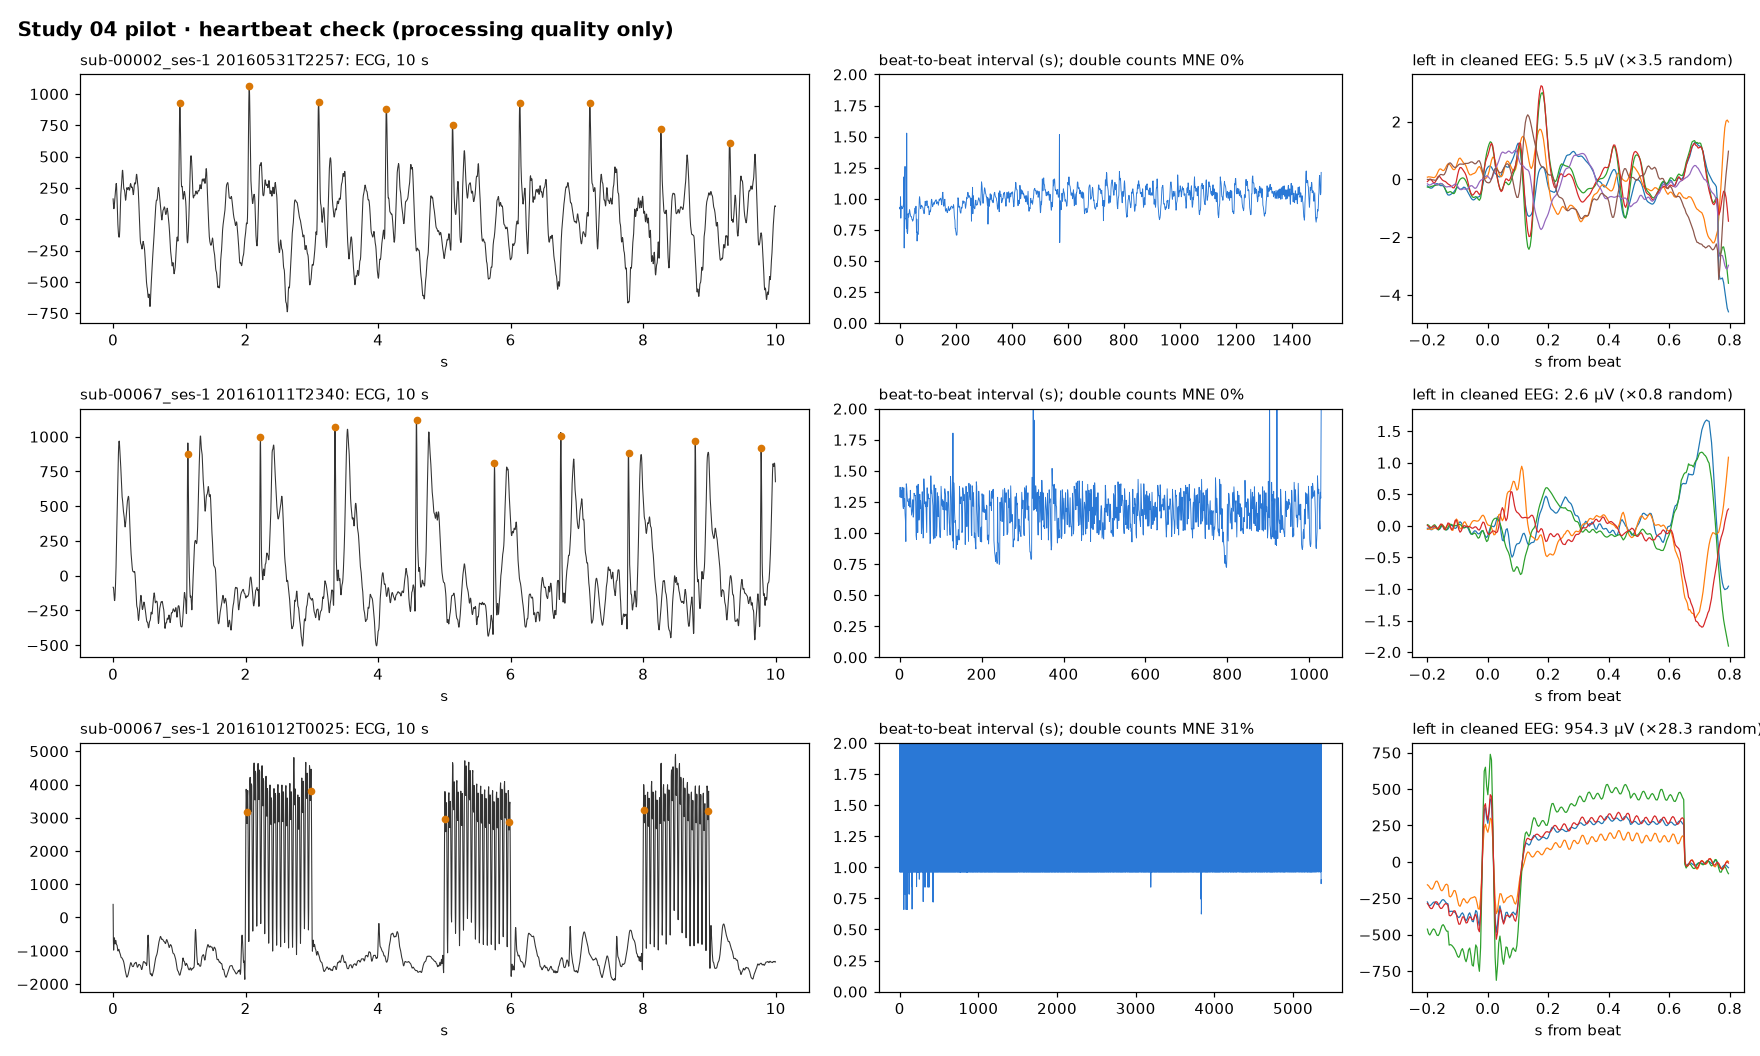
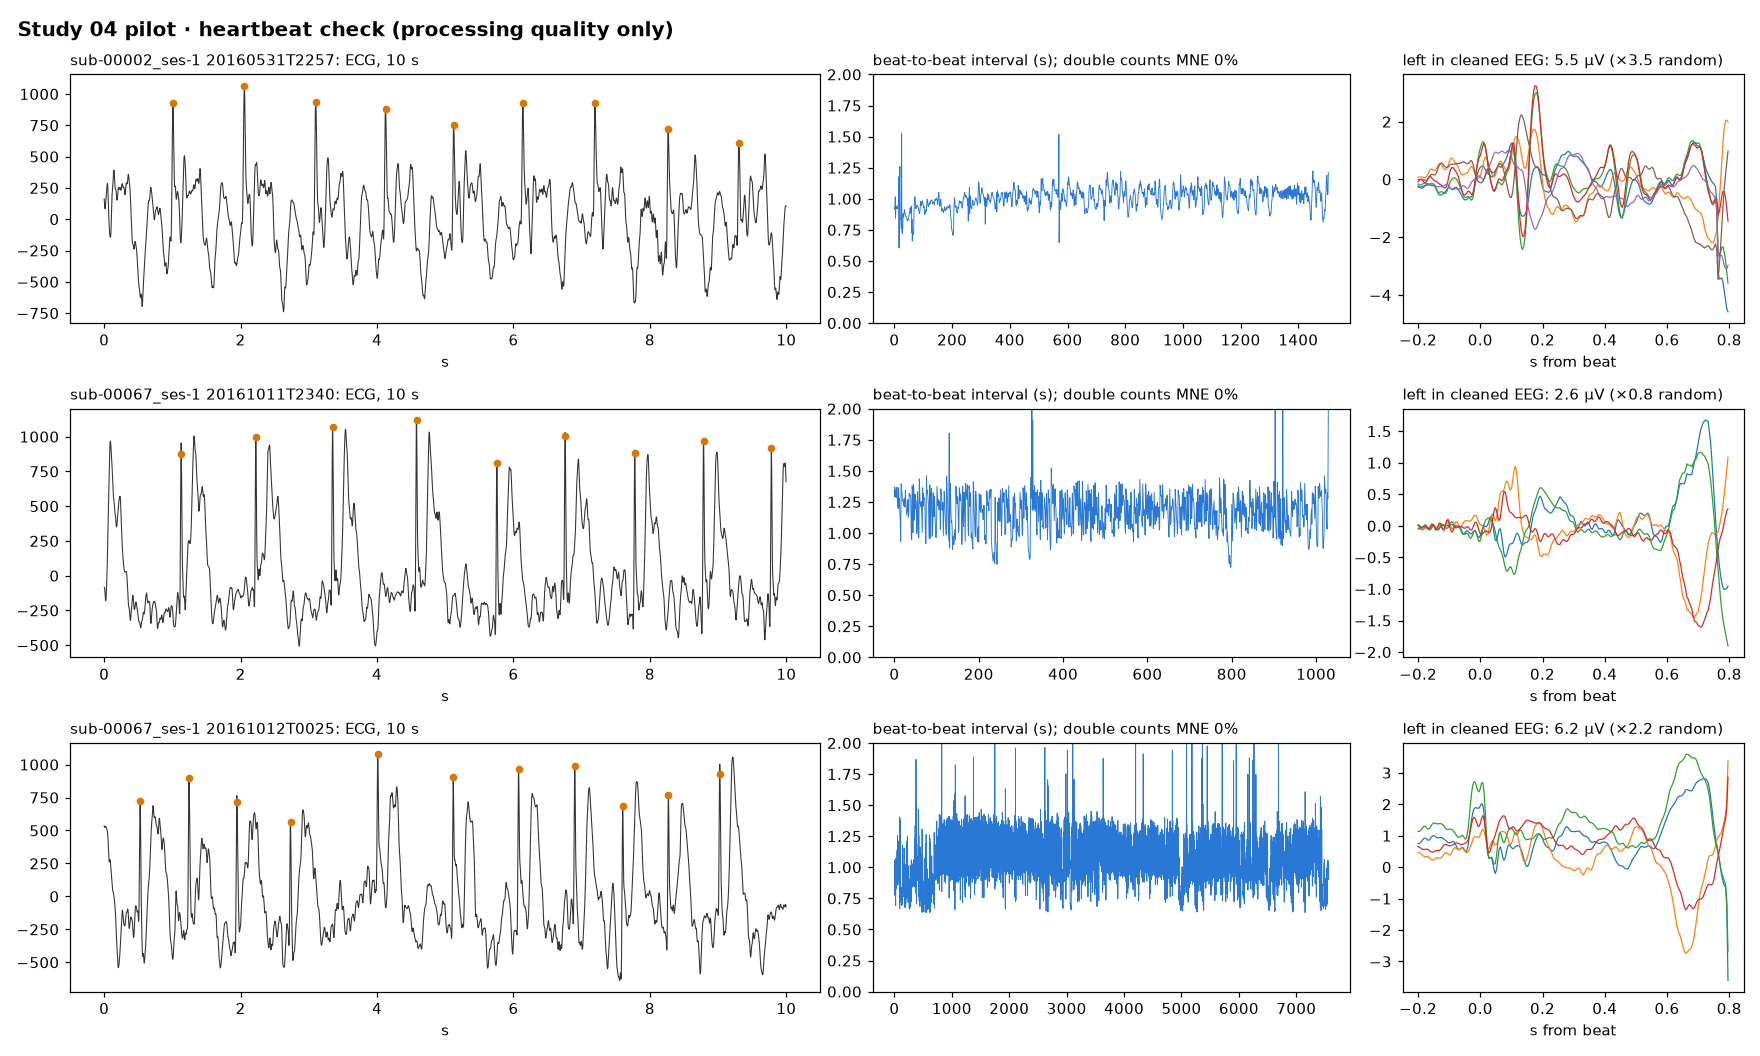
Study 04: amendment 2 fix verified on sub-00067 (residual 954->6 uV, double counts 31%->0.3%)

diff --git a/studies/04-multisite-replication/README.md b/studies/04-multisite-replication/README.md
@@ -10,7 +10,7 @@
 
 ## Status
 
-**Pilot complete; one processing fault found and fixed ([amendment 2](PREREGISTRATION.md#amendment-2--scanner-artefact-template-length)); sub-00067 is being re-processed before the full run.** No classifier has been trained and no hypothesis tested yet: that happens only when the full sample is processed.
+**Pilot complete; one processing fault found, fixed ([amendment 2](PREREGISTRATION.md#amendment-2--scanner-artefact-template-length)) and verified by re-processing sub-00067.** Next: the full run, one participant at a time. No classifier has been trained and no hypothesis tested yet: that happens only when the full sample is processed.
 
 ### Pilot (processing quality only)
 
@@ -18,15 +18,24 @@
 |---|:---:|:---:|
 | Runs usable | 1 of 2 (run 2: all epochs unscorable, skipped by rule 1) | 7 of 7 |
 | Epochs analysed (W / N1 / N2) | 49 (17 / 26 / 6) | 366 (57 / 150 / 159) |
-| Epochs rejected (Autoreject) | 6.1% | 16.9% |
-| Bad channels, median (max) | 4 (4) | 0 (2) |
-| Heart rate, median | 59 bpm | 68 bpm |
-| Heartbeat removal, INPS (MNE detector) | **3.9 dB** | **0.7 dB** (run 5: −0.9 dB) |
+| Epochs rejected (Autoreject) | 6.1% | 19.4% |
+| Bad channels, median (max) | 4 (4) | 0 (1) |
+| Heart rate, median | 59 bpm | 57 bpm |
+| Heartbeat removal, INPS (MNE detector) | 3.9 dB | 0.7 dB (runs 0.4–2.1) |
 | Exclusion rules 4 and 5 | pass | pass |
 
-Heartbeat removal looked weak in sub-00067. The cause was upstream: two of its runs contain a few irregular scanner triggers, and the scanner-artefact template was set to the shortest trigger interval (2 s instead of the 3-s TR), leaving the last second of every volume uncorrected; the beat detectors then locked onto those bursts. The template is now one TR long, as the method defines ([amendment 2](PREREGISTRATION.md#amendment-2--scanner-artefact-template-length)); ds003768 has no irregular triggers, so studies 01–03 are unaffected.
+Heartbeat removal looked weak in sub-00067. The cause was upstream: two of its runs contain a few irregular scanner triggers, and the scanner-artefact template was set to the shortest trigger interval (2 s instead of the 3-s TR), leaving the last second of every volume uncorrected; the beat detectors then locked onto those bursts. The template is now one TR long, as the method defines ([amendment 2](PREREGISTRATION.md#amendment-2--scanner-artefact-template-length)); ds003768 has no irregular triggers, so studies 01–03 are unaffected. sub-00067 was then re-processed (the table above shows the re-processed values):
 
-![Pilot heartbeat check: clean ECG in a good run, and residual scanner bursts every 3 s in sub-00067 run 5](results/pilot_heartbeat_check.png)
+| sub-00067, runs with irregular triggers | Run 5, before | Run 5, after | Run 7, before | Run 7, after |
+|---|:---:|:---:|:---:|:---:|
+| Heartbeat-locked residual in cleaned EEG | 954 µV | 6.2 µV | 256 µV | 4.2 µV |
+| … relative to random-locked average | ×28 | ×2.2 | ×12 | ×2.7 |
+| Double-counted beats (MNE detector) | 31% | 0.3% | 14% | 0.3% |
+| Heart rate (MNE detector) | 68 bpm | 57 bpm | 91 bpm | 52 bpm |
+
+After the fix both runs look like the participant's other runs (residual ×0.8–2.4 random). INPS stays modest (0.4–2.1 dB) in every sub-00067 run, including runs that never had the fault: its pulse artefact is small to begin with (residual 2.6 µV in run 3), so there is little to remove.
+
+![Pilot heartbeat check after the fix: clean ECG, single-counted beats and a few µV of residual in sub-00002 and sub-00067 runs 3 and 5](results/pilot_heartbeat_check.png)
 
 ## Code
 
